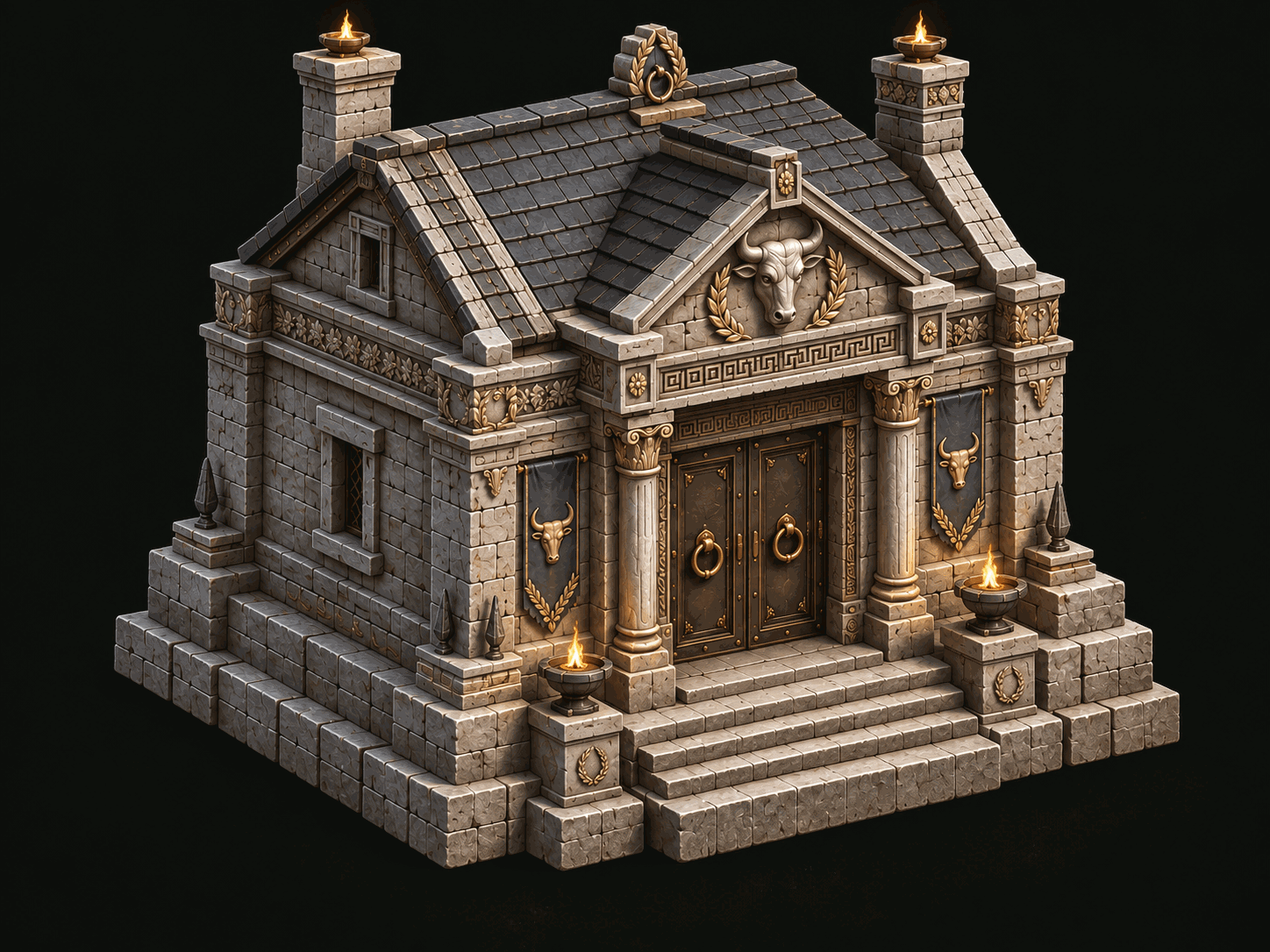
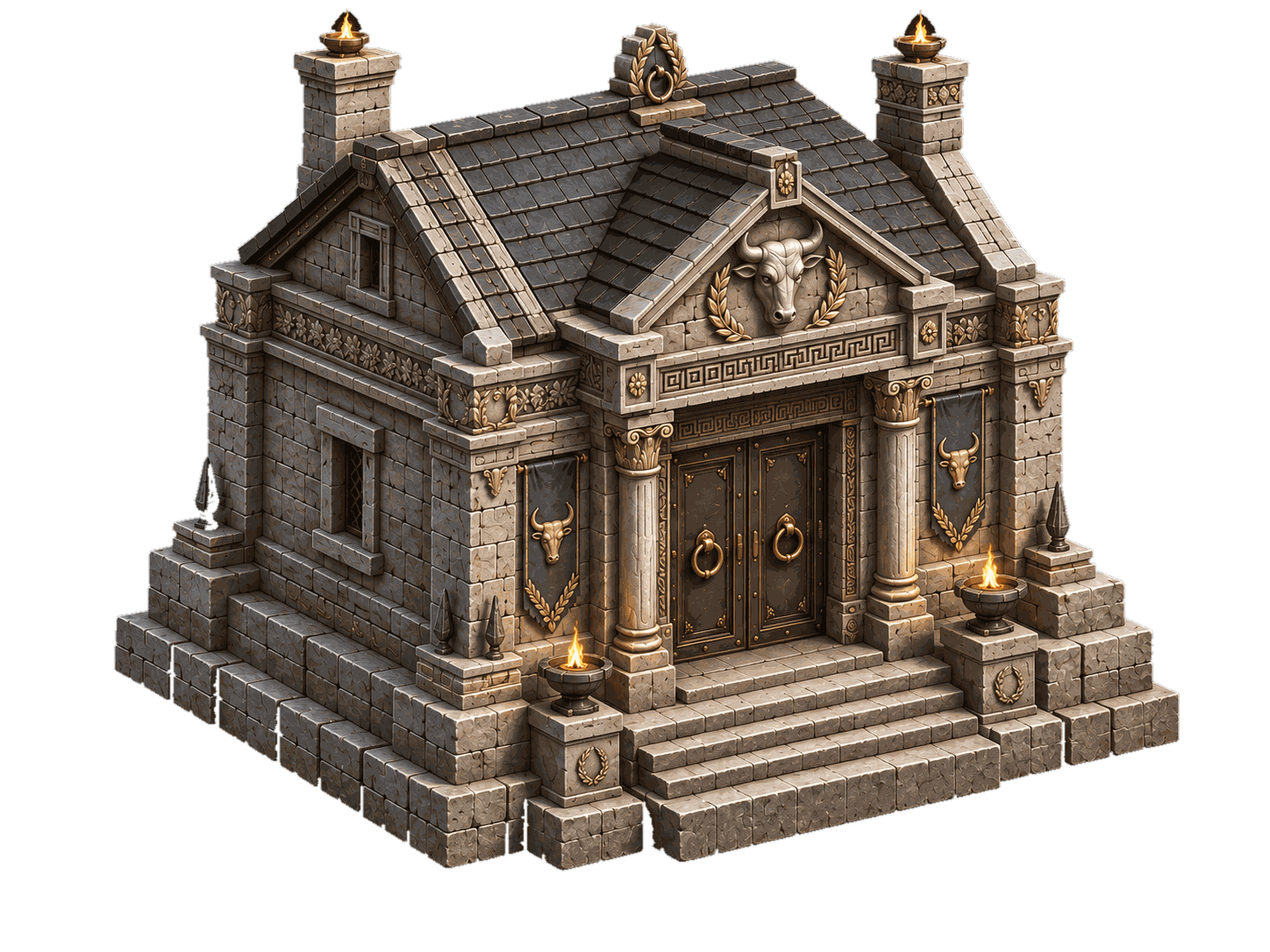
feat(cottage): streamline homepage to pure 2.5D stone cottage model with Day/Night adaptive theme

diff --git a/frontend/index.html b/frontend/index.html
@@ -1,7 +1,7 @@
 <!DOCTYPE html>
 <html lang="zh-CN" data-theme="light">
 <head>
-<script>window.STONE_ASSETS={"admin.js":"/assets/admin.61939f695dc3.js","app.js":"/assets/app.4164c10e9bc3.js","auth.js":"/assets/auth.cc69922a3644.js","cet4/app.js":"/assets/cet4-app.4e02b306c103.js","cet4/data/exam_01.json":"/assets/cet4-data-exam_01.f6e4247afdec.json","cet4/data/exam_02.json":"/assets/cet4-data-exam_02.e5b36a27306d.json","cet4/data/exam_03.json":"/assets/cet4-data-exam_03.227886285bf5.json","cet4/data/exam_04.json":"/assets/cet4-data-exam_04.6a056c9cc798.json","cet4/data/exam_05.json":"/assets/cet4-data-exam_05.9df5c8c46e96.json","cet4/data/exam_06.json":"/assets/cet4-data-exam_06.24951433e4c0.json","cet4/data/exam_07.json":"/assets/cet4-data-exam_07.ca5ae2ba33b1.json","cet4/data/exam_08.json":"/assets/cet4-data-exam_08.3a74b9f034f8.json","cet4/data/exam_09.json":"/assets/cet4-data-exam_09.d57122fa8b82.json","cet4/data/exam_10.json":"/assets/cet4-data-exam_10.f1f47a688e05.json","cet4/data/exam_11.json":"/assets/cet4-data-exam_11.d428e9b24ee3.json","cet4/data/exam_12.json":"/assets/cet4-data-exam_12.7b46318401be.json","cet4/data/exam_13.json":"/assets/cet4-data-exam_13.a3e7c6e0ea73.json","cet4/data/exam_14.json":"/assets/cet4-data-exam_14.cf302943a498.json","cet4/data/manifest.json":"/assets/cet4-data-manifest.336f50ee005a.json","cet4/style.css":"/assets/cet4-style.c0027cb543d5.css","chapters/1.json":"/assets/chapters-1.9ca2021024eb.json","chapters/10.json":"/assets/chapters-10.810cd0c76012.json","chapters/11.json":"/assets/chapters-11.1dd870a00699.json","chapters/12.json":"/assets/chapters-12.8b1ce35aa681.json","chapters/13.json":"/assets/chapters-13.21e7742ddb33.json","chapters/14.json":"/assets/chapters-14.ee35c739452d.json","chapters/15.json":"/assets/chapters-15.444f5b97fca2.json","chapters/16.json":"/assets/chapters-16.0f3ab7d4fad0.json","chapters/17.json":"/assets/chapters-17.66e9cfe5f37f.json","chapters/18.json":"/assets/chapters-18.62f3e8e1e6de.json","chapters/19.json":"/assets/chapters-19.076a921b0690.json","chapters/2.json":"/assets/chapters-2.55b459d61376.json","chapters/20.json":"/assets/chapters-20.d2d4d246b52c.json","chapters/21.json":"/assets/chapters-21.7936fa233f9b.json","chapters/22.json":"/assets/chapters-22.7e9168c8a88f.json","chapters/23.json":"/assets/chapters-23.c5eaa8c69c51.json","chapters/24.json":"/assets/chapters-24.87dc7b7b49aa.json","chapters/25.json":"/assets/chapters-25.6085a5293778.json","chapters/26.json":"/assets/chapters-26.f2710162db31.json","chapters/27.json":"/assets/chapters-27.20ee0a08a237.json","chapters/28.json":"/assets/chapters-28.6132fd9f20a1.json","chapters/29.json":"/assets/chapters-29.c86cf854cf65.json","chapters/3.json":"/assets/chapters-3.e064a7f49844.json","chapters/30.json":"/assets/chapters-30.249cf31f4bc0.json","chapters/31.json":"/assets/chapters-31.ea0e2527654b.json","chapters/32.json":"/assets/chapters-32.1d69945dfe26.json","chapters/33.json":"/assets/chapters-33.9a2a4aebb7a1.json","chapters/34.json":"/assets/chapters-34.32ee98823ee8.json","chapters/35.json":"/assets/chapters-35.989325f106c5.json","chapters/36.json":"/assets/chapters-36.5416285549c6.json","chapters/37.json":"/assets/chapters-37.46c1ad87860f.json","chapters/38.json":"/assets/chapters-38.7652e8cf0d98.json","chapters/39.json":"/assets/chapters-39.6923842d3df4.json","chapters/4.json":"/assets/chapters-4.414eee93c751.json","chapters/40.json":"/assets/chapters-40.f446154441d3.json","chapters/41.json":"/assets/chapters-41.eaca79ff9fe1.json","chapters/42.json":"/assets/chapters-42.3f700b6615dc.json","chapters/43.json":"/assets/chapters-43.0d35bf45c25f.json","chapters/44.json":"/assets/chapters-44.95fca01c7164.json","chapters/45.json":"/assets/chapters-45.5a3ed455618b.json","chapters/46.json":"/assets/chapters-46.0f37b52962eb.json","chapters/47.json":"/assets/chapters-47.a4b60261a17e.json","chapters/48.json":"/assets/chapters-48.240db1452016.json","chapters/49.json":"/assets/chapters-49.a81d0b372ec5.json","chapters/5.json":"/assets/chapters-5.c54aef6bcaf4.json","chapters/50.json":"/assets/chapters-50.4b7cc15f38f2.json","chapters/51.json":"/assets/chapters-51.f8317f82787c.json","chapters/6.json":"/assets/chapters-6.a9590ab251b0.json","chapters/7.json":"/assets/chapters-7.4791be678c47.json","chapters/8.json":"/assets/chapters-8.08bf4c2268be.json","chapters/9.json":"/assets/chapters-9.ed183a885450.json","cottage.js":"/assets/cottage.897df0cdf3e4.js","dictionary.js":"/assets/dictionary.29093c012695.js","extra-definitions.js":"/assets/extra-definitions.73a244a00291.js","match.js":"/assets/match.a1ecfe5cebc1.js","novel-index.json":"/assets/novel-index.d065c7a427d0.json","performance-runtime.js":"/assets/performance-runtime.4e1d57ad7e69.js","radio-data.js":"/assets/radio-data.aa52ebb96648.js","radio-player.js":"/assets/radio-player.6cf6e0423375.js","risk-reward-engine.js":"/assets/risk-reward-engine.e26a2ad340eb.js","style.css":"/assets/style.7c1b8983287f.css","survival.js":"/assets/survival.e0e37a64ab2c.js","sync.js":"/assets/sync.1ae368888ced.js","tarot.js":"/assets/tarot.4611aeeb8558.js","ui-enhancements.css":"/assets/ui-enhancements.4697b6a462f3.css","ui-enhancements.js":"/assets/ui-enhancements.b820bf668acc.js","vocabulary.js":"/assets/vocabulary.7146c69f0a10.js","words-data.js":"/assets/words-data.7cdef85a1bcf.js"};</script>
+<script>window.STONE_ASSETS={"admin.js":"/assets/admin.61939f695dc3.js","app.js":"/assets/app.4164c10e9bc3.js","auth.js":"/assets/auth.cc69922a3644.js","cet4/app.js":"/assets/cet4-app.4e02b306c103.js","cet4/data/exam_01.json":"/assets/cet4-data-exam_01.f6e4247afdec.json","cet4/data/exam_02.json":"/assets/cet4-data-exam_02.e5b36a27306d.json","cet4/data/exam_03.json":"/assets/cet4-data-exam_03.227886285bf5.json","cet4/data/exam_04.json":"/assets/cet4-data-exam_04.6a056c9cc798.json","cet4/data/exam_05.json":"/assets/cet4-data-exam_05.9df5c8c46e96.json","cet4/data/exam_06.json":"/assets/cet4-data-exam_06.24951433e4c0.json","cet4/data/exam_07.json":"/assets/cet4-data-exam_07.ca5ae2ba33b1.json","cet4/data/exam_08.json":"/assets/cet4-data-exam_08.3a74b9f034f8.json","cet4/data/exam_09.json":"/assets/cet4-data-exam_09.d57122fa8b82.json","cet4/data/exam_10.json":"/assets/cet4-data-exam_10.f1f47a688e05.json","cet4/data/exam_11.json":"/assets/cet4-data-exam_11.d428e9b24ee3.json","cet4/data/exam_12.json":"/assets/cet4-data-exam_12.7b46318401be.json","cet4/data/exam_13.json":"/assets/cet4-data-exam_13.a3e7c6e0ea73.json","cet4/data/exam_14.json":"/assets/cet4-data-exam_14.cf302943a498.json","cet4/data/manifest.json":"/assets/cet4-data-manifest.336f50ee005a.json","cet4/style.css":"/assets/cet4-style.c0027cb543d5.css","chapters/1.json":"/assets/chapters-1.9ca2021024eb.json","chapters/10.json":"/assets/chapters-10.810cd0c76012.json","chapters/11.json":"/assets/chapters-11.1dd870a00699.json","chapters/12.json":"/assets/chapters-12.8b1ce35aa681.json","chapters/13.json":"/assets/chapters-13.21e7742ddb33.json","chapters/14.json":"/assets/chapters-14.ee35c739452d.json","chapters/15.json":"/assets/chapters-15.444f5b97fca2.json","chapters/16.json":"/assets/chapters-16.0f3ab7d4fad0.json","chapters/17.json":"/assets/chapters-17.66e9cfe5f37f.json","chapters/18.json":"/assets/chapters-18.62f3e8e1e6de.json","chapters/19.json":"/assets/chapters-19.076a921b0690.json","chapters/2.json":"/assets/chapters-2.55b459d61376.json","chapters/20.json":"/assets/chapters-20.d2d4d246b52c.json","chapters/21.json":"/assets/chapters-21.7936fa233f9b.json","chapters/22.json":"/assets/chapters-22.7e9168c8a88f.json","chapters/23.json":"/assets/chapters-23.c5eaa8c69c51.json","chapters/24.json":"/assets/chapters-24.87dc7b7b49aa.json","chapters/25.json":"/assets/chapters-25.6085a5293778.json","chapters/26.json":"/assets/chapters-26.f2710162db31.json","chapters/27.json":"/assets/chapters-27.20ee0a08a237.json","chapters/28.json":"/assets/chapters-28.6132fd9f20a1.json","chapters/29.json":"/assets/chapters-29.c86cf854cf65.json","chapters/3.json":"/assets/chapters-3.e064a7f49844.json","chapters/30.json":"/assets/chapters-30.249cf31f4bc0.json","chapters/31.json":"/assets/chapters-31.ea0e2527654b.json","chapters/32.json":"/assets/chapters-32.1d69945dfe26.json","chapters/33.json":"/assets/chapters-33.9a2a4aebb7a1.json","chapters/34.json":"/assets/chapters-34.32ee98823ee8.json","chapters/35.json":"/assets/chapters-35.989325f106c5.json","chapters/36.json":"/assets/chapters-36.5416285549c6.json","chapters/37.json":"/assets/chapters-37.46c1ad87860f.json","chapters/38.json":"/assets/chapters-38.7652e8cf0d98.json","chapters/39.json":"/assets/chapters-39.6923842d3df4.json","chapters/4.json":"/assets/chapters-4.414eee93c751.json","chapters/40.json":"/assets/chapters-40.f446154441d3.json","chapters/41.json":"/assets/chapters-41.eaca79ff9fe1.json","chapters/42.json":"/assets/chapters-42.3f700b6615dc.json","chapters/43.json":"/assets/chapters-43.0d35bf45c25f.json","chapters/44.json":"/assets/chapters-44.95fca01c7164.json","chapters/45.json":"/assets/chapters-45.5a3ed455618b.json","chapters/46.json":"/assets/chapters-46.0f37b52962eb.json","chapters/47.json":"/assets/chapters-47.a4b60261a17e.json","chapters/48.json":"/assets/chapters-48.240db1452016.json","chapters/49.json":"/assets/chapters-49.a81d0b372ec5.json","chapters/5.json":"/assets/chapters-5.c54aef6bcaf4.json","chapters/50.json":"/assets/chapters-50.4b7cc15f38f2.json","chapters/51.json":"/assets/chapters-51.f8317f82787c.json","chapters/6.json":"/assets/chapters-6.a9590ab251b0.json","chapters/7.json":"/assets/chapters-7.4791be678c47.json","chapters/8.json":"/assets/chapters-8.08bf4c2268be.json","chapters/9.json":"/assets/chapters-9.ed183a885450.json","cottage.js":"/assets/cottage.897df0cdf3e4.js","dictionary.js":"/assets/dictionary.29093c012695.js","extra-definitions.js":"/assets/extra-definitions.73a244a00291.js","match.js":"/assets/match.a1ecfe5cebc1.js","novel-index.json":"/assets/novel-index.d065c7a427d0.json","performance-runtime.js":"/assets/performance-runtime.4e1d57ad7e69.js","radio-data.js":"/assets/radio-data.aa52ebb96648.js","radio-player.js":"/assets/radio-player.6cf6e0423375.js","risk-reward-engine.js":"/assets/risk-reward-engine.e26a2ad340eb.js","style.css":"/assets/style.7c1b8983287f.css","survival.js":"/assets/survival.e0e37a64ab2c.js","sync.js":"/assets/sync.1ae368888ced.js","tarot.js":"/assets/tarot.4611aeeb8558.js","ui-enhancements.css":"/assets/ui-enhancements.2b1801a45242.css","ui-enhancements.js":"/assets/ui-enhancements.b820bf668acc.js","vocabulary.js":"/assets/vocabulary.7146c69f0a10.js","words-data.js":"/assets/words-data.7cdef85a1bcf.js"};</script>
 
   <meta charset="UTF-8">
   <meta name="viewport" content="width=device-width, initial-scale=1.0, viewport-fit=cover">
@@ -14,7 +14,7 @@
   <meta property="og:description" content="在折纸与词汇的废墟中生存，通过RPG冒险与精听特训高效掌握核心英语词汇">
   <meta property="og:type" content="website">
   <link rel="stylesheet" href="/assets/style.7c1b8983287f.css">
-<link rel="stylesheet" href="/assets/ui-enhancements.4697b6a462f3.css">
+<link rel="stylesheet" href="/assets/ui-enhancements.2b1801a45242.css">
 </head>
 <body>
 
@@ -70,32 +70,35 @@
 
   <!-- ================= VIEW 0: 小石屋 2.5D 大厅 (COTTAGE) ================= -->
   <div id="viewCottage" class="view-section active">
-    <!-- 顶栏状态与微控 -->
-    <div class="cottage-header-bar">
-      <div class="cottage-location-tag">
-        <span class="cottage-status-dot"></span>
-        <span id="cottageLocationLabel">炉火旁 · 室内</span>
-      </div>
-      <div class="cottage-control-group">
-        <button class="cottage-capsule-btn" id="btnCottagePerspective" onclick="toggleCottagePerspective()" title="切换室内/室外视点">
-          <span id="cottagePerspectiveIcon">🌲</span>
-          <span id="cottagePerspectiveText">去屋外看看</span>
-        </button>
-        <button class="cottage-capsule-btn" id="btnCottageWarmth" onclick="toggleCottageWarmth()" title="壁炉暖光开关">
-          <span>🔥</span>
-          <span id="cottageWarmthText">暖光已开启</span>
-        </button>
-        <button class="cottage-capsule-btn" id="btnCottageHints" onclick="toggleCottageHints()" title="显示/隐藏探索交互标记">
-          <span id="cottageHintsIcon">👁</span>
-          <span id="cottageHintsText">提示</span>
-        </button>
-      </div>
-    </div>
-
-    <!-- 2.5D 石屋视窗场景容器 -->
+    <!-- 2.5D 石屋视窗场景容器 (纯石屋模型 · 日夜随动) -->
     <div class="scene-wrap">
+      <!-- 场景微控悬浮栏 (玻璃拟态 · 精简无遮挡) -->
+      <div class="cottage-floating-bar">
+        <div class="cottage-float-pill cottage-loc-pill" id="cottageLocationBadge">
+          <span class="cottage-status-dot"></span>
+          <span id="cottageLocationLabel">炉火旁 · 室内</span>
+        </div>
+        <div class="cottage-floating-actions">
+          <button class="cottage-float-pill" id="btnCottagePerspective" onclick="toggleCottagePerspective()" title="切换室内/室外视点">
+            <span class="pill-icon" id="cottagePerspectiveIcon">🌲</span>
+            <span class="pill-text" id="cottagePerspectiveText">去屋外</span>
+          </button>
+          <button class="cottage-float-pill" id="btnCottageWarmth" onclick="toggleCottageWarmth()" title="壁炉暖光开关">
+            <span class="pill-icon">🔥</span>
+            <span class="pill-text" id="cottageWarmthText">暖光</span>
+          </button>
+          <button class="cottage-float-pill" id="btnCottageHints" onclick="toggleCottageHints()" title="显示/隐藏探索互动标记">
+            <span class="pill-icon" id="cottageHintsIcon">👁</span>
+            <span class="pill-text" id="cottageHintsText">提示</span>
+          </button>
+          <button class="cottage-float-pill" onclick="openCottageAboutModal()" title="关于小石屋避难所">
+            <span class="pill-icon">🕊</span>
+          </button>
+        </div>
+      </div>
+
       <div class="scene interior show-hints with-motion" id="cottageScene">
-        <!-- 基础环境背景（WebP 主力，PNG 降级） -->
+        <!-- 基础环境背景（透明 WebP 主力，量化 PNG 降级） -->
         <picture id="cottageBasePicture">
           <source id="cottageBaseSource" srcset="/assets/cottage-interior.webp" type="image/webp">
           <img id="cottageBaseImg" class="scene-base" src="/assets/cottage-interior.png" alt="小石屋内景" width="1448" height="1086" fetchpriority="high">
@@ -150,60 +153,6 @@
           </button>
         </div>
       </div>
-
-      <!-- 场景底栏快捷注脚 -->
-      <div class="scene-caption">
-        <span id="cottageSceneFootnote">小石屋 / 室内剖切等轴视角 · 炉边微暖</span>
-        <div class="cottage-caption-actions">
-          <span class="quiet-note"><span class="dot"></span> 理智抚慰庇护所</span>
-        </div>
-      </div>
-    </div>
-
-    <!-- 底部快捷手作卡座 (Object Dock) -->
-    <div class="cottage-object-dock">
-      <button class="cottage-dock-item" onclick="openCottageJournalModal()">
-        <span class="dock-icon">✍</span>
-        <div class="dock-meta">
-          <span class="dock-title">小石屋手记</span>
-          <span class="dock-sub">本地私人随笔</span>
-        </div>
-      </button>
-      <button class="cottage-dock-item" onclick="switchNavView('words')">
-        <span class="dock-icon">📖</span>
-        <div class="dock-meta">
-          <span class="dock-title">研习词库</span>
-          <span class="dock-sub">480/704 词</span>
-        </div>
-      </button>
-      <button class="cottage-dock-item primary-dock" onclick="switchNavView('survival')">
-        <span class="dock-icon">⚔</span>
-        <div class="dock-meta">
-          <span class="dock-title">推门出征</span>
-          <span class="dock-sub">51章生存战</span>
-        </div>
-      </button>
-      <button class="cottage-dock-item" onclick="switchNavView('profile').then(() => openCodexModal())">
-        <span class="dock-icon">🃏</span>
-        <div class="dock-meta">
-          <span class="dock-title">塔罗秘典</span>
-          <span class="dock-sub">大阿卡那手牌</span>
-        </div>
-      </button>
-      <a href="/cet4/" class="cottage-dock-item" style="text-decoration: none;">
-        <span class="dock-icon">🎧</span>
-        <div class="dock-meta">
-          <span class="dock-title">四级精听</span>
-          <span class="dock-sub">挖空复读机</span>
-        </div>
-      </a>
-      <button class="cottage-dock-item" onclick="openCottageAboutModal()">
-        <span class="dock-icon">🕊</span>
-        <div class="dock-meta">
-          <span class="dock-title">关于小石屋</span>
-          <span class="dock-sub">避难所理念</span>
-        </div>
-      </button>
     </div>
   </div>
 

diff --git a/frontend/cet4/index.html b/frontend/cet4/index.html
@@ -1,7 +1,7 @@
 <!DOCTYPE html>
 <html lang="zh-CN" data-theme="light">
 <head>
-<script>window.STONE_ASSETS={"admin.js":"/assets/admin.61939f695dc3.js","app.js":"/assets/app.4164c10e9bc3.js","auth.js":"/assets/auth.cc69922a3644.js","cet4/app.js":"/assets/cet4-app.4e02b306c103.js","cet4/data/exam_01.json":"/assets/cet4-data-exam_01.f6e4247afdec.json","cet4/data/exam_02.json":"/assets/cet4-data-exam_02.e5b36a27306d.json","cet4/data/exam_03.json":"/assets/cet4-data-exam_03.227886285bf5.json","cet4/data/exam_04.json":"/assets/cet4-data-exam_04.6a056c9cc798.json","cet4/data/exam_05.json":"/assets/cet4-data-exam_05.9df5c8c46e96.json","cet4/data/exam_06.json":"/assets/cet4-data-exam_06.24951433e4c0.json","cet4/data/exam_07.json":"/assets/cet4-data-exam_07.ca5ae2ba33b1.json","cet4/data/exam_08.json":"/assets/cet4-data-exam_08.3a74b9f034f8.json","cet4/data/exam_09.json":"/assets/cet4-data-exam_09.d57122fa8b82.json","cet4/data/exam_10.json":"/assets/cet4-data-exam_10.f1f47a688e05.json","cet4/data/exam_11.json":"/assets/cet4-data-exam_11.d428e9b24ee3.json","cet4/data/exam_12.json":"/assets/cet4-data-exam_12.7b46318401be.json","cet4/data/exam_13.json":"/assets/cet4-data-exam_13.a3e7c6e0ea73.json","cet4/data/exam_14.json":"/assets/cet4-data-exam_14.cf302943a498.json","cet4/data/manifest.json":"/assets/cet4-data-manifest.336f50ee005a.json","cet4/style.css":"/assets/cet4-style.c0027cb543d5.css","chapters/1.json":"/assets/chapters-1.9ca2021024eb.json","chapters/10.json":"/assets/chapters-10.810cd0c76012.json","chapters/11.json":"/assets/chapters-11.1dd870a00699.json","chapters/12.json":"/assets/chapters-12.8b1ce35aa681.json","chapters/13.json":"/assets/chapters-13.21e7742ddb33.json","chapters/14.json":"/assets/chapters-14.ee35c739452d.json","chapters/15.json":"/assets/chapters-15.444f5b97fca2.json","chapters/16.json":"/assets/chapters-16.0f3ab7d4fad0.json","chapters/17.json":"/assets/chapters-17.66e9cfe5f37f.json","chapters/18.json":"/assets/chapters-18.62f3e8e1e6de.json","chapters/19.json":"/assets/chapters-19.076a921b0690.json","chapters/2.json":"/assets/chapters-2.55b459d61376.json","chapters/20.json":"/assets/chapters-20.d2d4d246b52c.json","chapters/21.json":"/assets/chapters-21.7936fa233f9b.json","chapters/22.json":"/assets/chapters-22.7e9168c8a88f.json","chapters/23.json":"/assets/chapters-23.c5eaa8c69c51.json","chapters/24.json":"/assets/chapters-24.87dc7b7b49aa.json","chapters/25.json":"/assets/chapters-25.6085a5293778.json","chapters/26.json":"/assets/chapters-26.f2710162db31.json","chapters/27.json":"/assets/chapters-27.20ee0a08a237.json","chapters/28.json":"/assets/chapters-28.6132fd9f20a1.json","chapters/29.json":"/assets/chapters-29.c86cf854cf65.json","chapters/3.json":"/assets/chapters-3.e064a7f49844.json","chapters/30.json":"/assets/chapters-30.249cf31f4bc0.json","chapters/31.json":"/assets/chapters-31.ea0e2527654b.json","chapters/32.json":"/assets/chapters-32.1d69945dfe26.json","chapters/33.json":"/assets/chapters-33.9a2a4aebb7a1.json","chapters/34.json":"/assets/chapters-34.32ee98823ee8.json","chapters/35.json":"/assets/chapters-35.989325f106c5.json","chapters/36.json":"/assets/chapters-36.5416285549c6.json","chapters/37.json":"/assets/chapters-37.46c1ad87860f.json","chapters/38.json":"/assets/chapters-38.7652e8cf0d98.json","chapters/39.json":"/assets/chapters-39.6923842d3df4.json","chapters/4.json":"/assets/chapters-4.414eee93c751.json","chapters/40.json":"/assets/chapters-40.f446154441d3.json","chapters/41.json":"/assets/chapters-41.eaca79ff9fe1.json","chapters/42.json":"/assets/chapters-42.3f700b6615dc.json","chapters/43.json":"/assets/chapters-43.0d35bf45c25f.json","chapters/44.json":"/assets/chapters-44.95fca01c7164.json","chapters/45.json":"/assets/chapters-45.5a3ed455618b.json","chapters/46.json":"/assets/chapters-46.0f37b52962eb.json","chapters/47.json":"/assets/chapters-47.a4b60261a17e.json","chapters/48.json":"/assets/chapters-48.240db1452016.json","chapters/49.json":"/assets/chapters-49.a81d0b372ec5.json","chapters/5.json":"/assets/chapters-5.c54aef6bcaf4.json","chapters/50.json":"/assets/chapters-50.4b7cc15f38f2.json","chapters/51.json":"/assets/chapters-51.f8317f82787c.json","chapters/6.json":"/assets/chapters-6.a9590ab251b0.json","chapters/7.json":"/assets/chapters-7.4791be678c47.json","chapters/8.json":"/assets/chapters-8.08bf4c2268be.json","chapters/9.json":"/assets/chapters-9.ed183a885450.json","cottage.js":"/assets/cottage.897df0cdf3e4.js","dictionary.js":"/assets/dictionary.29093c012695.js","extra-definitions.js":"/assets/extra-definitions.73a244a00291.js","match.js":"/assets/match.a1ecfe5cebc1.js","novel-index.json":"/assets/novel-index.d065c7a427d0.json","performance-runtime.js":"/assets/performance-runtime.4e1d57ad7e69.js","radio-data.js":"/assets/radio-data.aa52ebb96648.js","radio-player.js":"/assets/radio-player.6cf6e0423375.js","risk-reward-engine.js":"/assets/risk-reward-engine.e26a2ad340eb.js","style.css":"/assets/style.7c1b8983287f.css","survival.js":"/assets/survival.e0e37a64ab2c.js","sync.js":"/assets/sync.1ae368888ced.js","tarot.js":"/assets/tarot.4611aeeb8558.js","ui-enhancements.css":"/assets/ui-enhancements.4697b6a462f3.css","ui-enhancements.js":"/assets/ui-enhancements.b820bf668acc.js","vocabulary.js":"/assets/vocabulary.7146c69f0a10.js","words-data.js":"/assets/words-data.7cdef85a1bcf.js"};</script>
+<script>window.STONE_ASSETS={"admin.js":"/assets/admin.61939f695dc3.js","app.js":"/assets/app.4164c10e9bc3.js","auth.js":"/assets/auth.cc69922a3644.js","cet4/app.js":"/assets/cet4-app.4e02b306c103.js","cet4/data/exam_01.json":"/assets/cet4-data-exam_01.f6e4247afdec.json","cet4/data/exam_02.json":"/assets/cet4-data-exam_02.e5b36a27306d.json","cet4/data/exam_03.json":"/assets/cet4-data-exam_03.227886285bf5.json","cet4/data/exam_04.json":"/assets/cet4-data-exam_04.6a056c9cc798.json","cet4/data/exam_05.json":"/assets/cet4-data-exam_05.9df5c8c46e96.json","cet4/data/exam_06.json":"/assets/cet4-data-exam_06.24951433e4c0.json","cet4/data/exam_07.json":"/assets/cet4-data-exam_07.ca5ae2ba33b1.json","cet4/data/exam_08.json":"/assets/cet4-data-exam_08.3a74b9f034f8.json","cet4/data/exam_09.json":"/assets/cet4-data-exam_09.d57122fa8b82.json","cet4/data/exam_10.json":"/assets/cet4-data-exam_10.f1f47a688e05.json","cet4/data/exam_11.json":"/assets/cet4-data-exam_11.d428e9b24ee3.json","cet4/data/exam_12.json":"/assets/cet4-data-exam_12.7b46318401be.json","cet4/data/exam_13.json":"/assets/cet4-data-exam_13.a3e7c6e0ea73.json","cet4/data/exam_14.json":"/assets/cet4-data-exam_14.cf302943a498.json","cet4/data/manifest.json":"/assets/cet4-data-manifest.336f50ee005a.json","cet4/style.css":"/assets/cet4-style.c0027cb543d5.css","chapters/1.json":"/assets/chapters-1.9ca2021024eb.json","chapters/10.json":"/assets/chapters-10.810cd0c76012.json","chapters/11.json":"/assets/chapters-11.1dd870a00699.json","chapters/12.json":"/assets/chapters-12.8b1ce35aa681.json","chapters/13.json":"/assets/chapters-13.21e7742ddb33.json","chapters/14.json":"/assets/chapters-14.ee35c739452d.json","chapters/15.json":"/assets/chapters-15.444f5b97fca2.json","chapters/16.json":"/assets/chapters-16.0f3ab7d4fad0.json","chapters/17.json":"/assets/chapters-17.66e9cfe5f37f.json","chapters/18.json":"/assets/chapters-18.62f3e8e1e6de.json","chapters/19.json":"/assets/chapters-19.076a921b0690.json","chapters/2.json":"/assets/chapters-2.55b459d61376.json","chapters/20.json":"/assets/chapters-20.d2d4d246b52c.json","chapters/21.json":"/assets/chapters-21.7936fa233f9b.json","chapters/22.json":"/assets/chapters-22.7e9168c8a88f.json","chapters/23.json":"/assets/chapters-23.c5eaa8c69c51.json","chapters/24.json":"/assets/chapters-24.87dc7b7b49aa.json","chapters/25.json":"/assets/chapters-25.6085a5293778.json","chapters/26.json":"/assets/chapters-26.f2710162db31.json","chapters/27.json":"/assets/chapters-27.20ee0a08a237.json","chapters/28.json":"/assets/chapters-28.6132fd9f20a1.json","chapters/29.json":"/assets/chapters-29.c86cf854cf65.json","chapters/3.json":"/assets/chapters-3.e064a7f49844.json","chapters/30.json":"/assets/chapters-30.249cf31f4bc0.json","chapters/31.json":"/assets/chapters-31.ea0e2527654b.json","chapters/32.json":"/assets/chapters-32.1d69945dfe26.json","chapters/33.json":"/assets/chapters-33.9a2a4aebb7a1.json","chapters/34.json":"/assets/chapters-34.32ee98823ee8.json","chapters/35.json":"/assets/chapters-35.989325f106c5.json","chapters/36.json":"/assets/chapters-36.5416285549c6.json","chapters/37.json":"/assets/chapters-37.46c1ad87860f.json","chapters/38.json":"/assets/chapters-38.7652e8cf0d98.json","chapters/39.json":"/assets/chapters-39.6923842d3df4.json","chapters/4.json":"/assets/chapters-4.414eee93c751.json","chapters/40.json":"/assets/chapters-40.f446154441d3.json","chapters/41.json":"/assets/chapters-41.eaca79ff9fe1.json","chapters/42.json":"/assets/chapters-42.3f700b6615dc.json","chapters/43.json":"/assets/chapters-43.0d35bf45c25f.json","chapters/44.json":"/assets/chapters-44.95fca01c7164.json","chapters/45.json":"/assets/chapters-45.5a3ed455618b.json","chapters/46.json":"/assets/chapters-46.0f37b52962eb.json","chapters/47.json":"/assets/chapters-47.a4b60261a17e.json","chapters/48.json":"/assets/chapters-48.240db1452016.json","chapters/49.json":"/assets/chapters-49.a81d0b372ec5.json","chapters/5.json":"/assets/chapters-5.c54aef6bcaf4.json","chapters/50.json":"/assets/chapters-50.4b7cc15f38f2.json","chapters/51.json":"/assets/chapters-51.f8317f82787c.json","chapters/6.json":"/assets/chapters-6.a9590ab251b0.json","chapters/7.json":"/assets/chapters-7.4791be678c47.json","chapters/8.json":"/assets/chapters-8.08bf4c2268be.json","chapters/9.json":"/assets/chapters-9.ed183a885450.json","cottage.js":"/assets/cottage.897df0cdf3e4.js","dictionary.js":"/assets/dictionary.29093c012695.js","extra-definitions.js":"/assets/extra-definitions.73a244a00291.js","match.js":"/assets/match.a1ecfe5cebc1.js","novel-index.json":"/assets/novel-index.d065c7a427d0.json","performance-runtime.js":"/assets/performance-runtime.4e1d57ad7e69.js","radio-data.js":"/assets/radio-data.aa52ebb96648.js","radio-player.js":"/assets/radio-player.6cf6e0423375.js","risk-reward-engine.js":"/assets/risk-reward-engine.e26a2ad340eb.js","style.css":"/assets/style.7c1b8983287f.css","survival.js":"/assets/survival.e0e37a64ab2c.js","sync.js":"/assets/sync.1ae368888ced.js","tarot.js":"/assets/tarot.4611aeeb8558.js","ui-enhancements.css":"/assets/ui-enhancements.2b1801a45242.css","ui-enhancements.js":"/assets/ui-enhancements.b820bf668acc.js","vocabulary.js":"/assets/vocabulary.7146c69f0a10.js","words-data.js":"/assets/words-data.7cdef85a1bcf.js"};</script>
 
   <meta charset="UTF-8">
   <meta name="viewport" content="width=device-width, initial-scale=1.0, viewport-fit=cover">
@@ -11,7 +11,7 @@
   <title>CET-4 四级听力挖空复读机 · 折纸多模式特训工作台</title>
   <meta name="description" content="CET-4 四级听力真题精听复读、连读弱读音爆、整句听写打字机、声呐迷雾与小石屋通缉榜联动系统">
   <link rel="stylesheet" href="/assets/cet4-style.c0027cb543d5.css">
-<link rel="stylesheet" href="/assets/ui-enhancements.4697b6a462f3.css">
+<link rel="stylesheet" href="/assets/ui-enhancements.2b1801a45242.css">
 </head>
 <body>
 

diff --git a/frontend/assets/ui-enhancements.ea03131300e9.css b/frontend/assets/ui-enhancements.ea03131300e9.css
@@ -508,52 +508,37 @@ button:focus-visible,a:focus-visible,input:focus-visible,select:focus-visible,su
 
 @media (max-width: 640px) {
   .cottage-floating-bar {
-    top: 8px;
-    left: 8px;
-    right: 8px;
+    top: 6px;
+    left: 6px;
+    right: 6px;
   }
   .cottage-floating-actions {
-    gap: 5px;
+    gap: 4px;
   }
   .cottage-float-pill {
-    padding: 0;
-    width: 30px;
-    height: 30px;
-    min-width: 30px;
-    min-height: 30px;
-    box-sizing: border-box;
-    display: inline-flex;
-    align-items: center;
-    justify-content: center;
-    border-radius: 50%;
-    font-size: 13.5px;
-    line-height: 1;
-    box-shadow: 0 2px 6px rgba(0, 0, 0, 0.12);
+    padding: 3px 7px;
+    font-size: 11px;
+    gap: 2px;
+    border-radius: 16px;
   }
-  .cottage-float-pill .pill-text {
+  .cottage-floating-actions .cottage-float-pill span:not([id$="Icon"]) {
     display: none;
   }
   .cottage-loc-pill {
-    width: auto;
-    min-width: 0;
-    height: 30px;
-    min-height: 30px;
-    padding: 0 10px;
-    border-radius: 15px;
-    font-size: 11px;
-    max-width: 120px;
+    font-size: 10.5px;
+    padding: 3px 8px;
+    max-width: 110px;
     overflow: hidden;
     text-overflow: ellipsis;
     white-space: nowrap;
-    box-shadow: 0 2px 6px rgba(0, 0, 0, 0.12);
   }
   .scene {
-    border-radius: 16px;
+    border-radius: 14px;
   }
   .marker {
-    width: 24px;
-    height: 24px;
-    font-size: 11px;
+    width: 26px;
+    height: 26px;
+    font-size: 12px;
   }
 }
 

diff --git a/frontend/assets/ui-enhancements.4071473ed3ec.css b/frontend/assets/ui-enhancements.4071473ed3ec.css
@@ -517,18 +517,17 @@ button:focus-visible,a:focus-visible,input:focus-visible,select:focus-visible,su
   }
   .cottage-float-pill {
     padding: 0;
-    width: 30px;
-    height: 30px;
-    min-width: 30px;
-    min-height: 30px;
+    width: 28px;
+    height: 28px;
+    min-width: 28px;
+    min-height: 28px;
     box-sizing: border-box;
+    aspect-ratio: 1 / 1;
     display: inline-flex;
     align-items: center;
     justify-content: center;
     border-radius: 50%;
-    font-size: 13.5px;
-    line-height: 1;
-    box-shadow: 0 2px 6px rgba(0, 0, 0, 0.12);
+    font-size: 13px;
   }
   .cottage-float-pill .pill-text {
     display: none;
@@ -536,16 +535,16 @@ button:focus-visible,a:focus-visible,input:focus-visible,select:focus-visible,su
   .cottage-loc-pill {
     width: auto;
     min-width: 0;
-    height: 30px;
-    min-height: 30px;
-    padding: 0 10px;
-    border-radius: 15px;
-    font-size: 11px;
-    max-width: 120px;
+    height: 28px;
+    min-height: 28px;
+    padding: 0 9px;
+    border-radius: 14px;
+    font-size: 10.5px;
+    aspect-ratio: auto;
+    max-width: 110px;
     overflow: hidden;
     text-overflow: ellipsis;
     white-space: nowrap;
-    box-shadow: 0 2px 6px rgba(0, 0, 0, 0.12);
   }
   .scene {
     border-radius: 16px;

diff --git a/frontend/assets/ui-enhancements.1c7164fca220.css b/frontend/assets/ui-enhancements.1c7164fca220.css
@@ -512,48 +512,24 @@ button:focus-visible,a:focus-visible,input:focus-visible,select:focus-visible,su
     left: 8px;
     right: 8px;
   }
-  .cottage-floating-actions {
-    gap: 5px;
-  }
   .cottage-float-pill {
-    padding: 0;
-    width: 30px;
-    height: 30px;
-    min-width: 30px;
-    min-height: 30px;
-    box-sizing: border-box;
-    display: inline-flex;
-    align-items: center;
-    justify-content: center;
-    border-radius: 50%;
-    font-size: 13.5px;
-    line-height: 1;
-    box-shadow: 0 2px 6px rgba(0, 0, 0, 0.12);
-  }
-  .cottage-float-pill .pill-text {
-    display: none;
+    padding: 4px 9px;
+    font-size: 11px;
+    gap: 3px;
   }
   .cottage-loc-pill {
-    width: auto;
-    min-width: 0;
-    height: 30px;
-    min-height: 30px;
-    padding: 0 10px;
-    border-radius: 15px;
-    font-size: 11px;
-    max-width: 120px;
+    max-width: 110px;
     overflow: hidden;
     text-overflow: ellipsis;
     white-space: nowrap;
-    box-shadow: 0 2px 6px rgba(0, 0, 0, 0.12);
   }
   .scene {
-    border-radius: 16px;
+    border-radius: 14px;
   }
   .marker {
-    width: 24px;
-    height: 24px;
-    font-size: 11px;
+    width: 26px;
+    height: 26px;
+    font-size: 12px;
   }
 }
 

diff --git a/frontend/assets/ui-enhancements.722e80e7874c.css b/frontend/assets/ui-enhancements.722e80e7874c.css
@@ -513,47 +513,39 @@ button:focus-visible,a:focus-visible,input:focus-visible,select:focus-visible,su
     right: 8px;
   }
   .cottage-floating-actions {
-    gap: 5px;
+    gap: 6px;
   }
   .cottage-float-pill {
     padding: 0;
-    width: 30px;
-    height: 30px;
-    min-width: 30px;
-    min-height: 30px;
-    box-sizing: border-box;
+    width: 32px;
+    height: 32px;
     display: inline-flex;
     align-items: center;
     justify-content: center;
     border-radius: 50%;
-    font-size: 13.5px;
-    line-height: 1;
-    box-shadow: 0 2px 6px rgba(0, 0, 0, 0.12);
+    font-size: 14px;
   }
   .cottage-float-pill .pill-text {
     display: none;
   }
   .cottage-loc-pill {
     width: auto;
-    min-width: 0;
-    height: 30px;
-    min-height: 30px;
+    height: 32px;
     padding: 0 10px;
-    border-radius: 15px;
+    border-radius: 16px;
     font-size: 11px;
     max-width: 120px;
     overflow: hidden;
     text-overflow: ellipsis;
     white-space: nowrap;
-    box-shadow: 0 2px 6px rgba(0, 0, 0, 0.12);
   }
   .scene {
     border-radius: 16px;
   }
   .marker {
-    width: 24px;
-    height: 24px;
-    font-size: 11px;
+    width: 26px;
+    height: 26px;
+    font-size: 12px;
   }
 }
 
